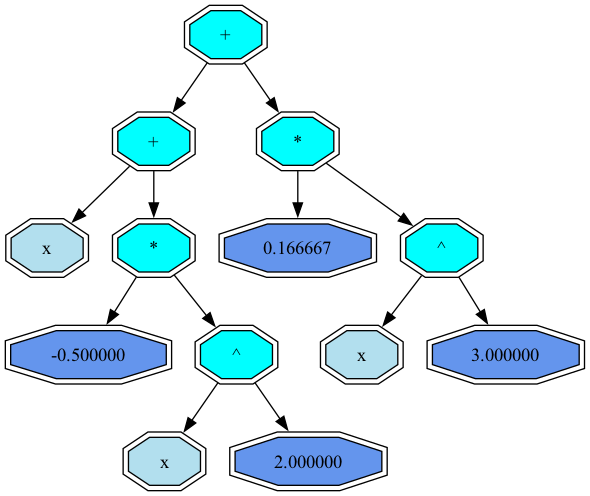
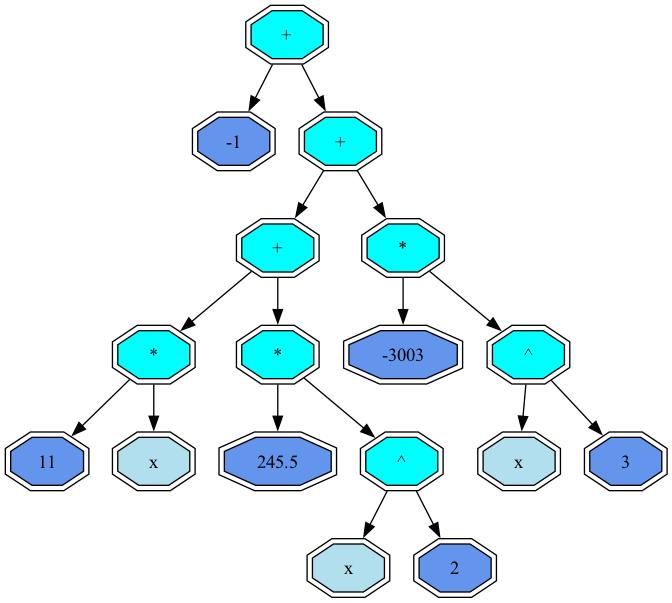
release

diff --git a/differential.cpp b/differential.cpp
@@ -247,10 +247,11 @@ void ExpressionTreeDump (TreeNode* node, enum EXPRESSION cmd_expression)
     {
         file = fopen ("original.dot", "w");
     }
-    else if (cmd_expression == CALCULATED)
+    if (cmd_expression == CALCULATED)
     {
         file = fopen ("calculated.dot", "w");
     }
+
     fprintf (file, "digraph G { \n"
                     "node [shape = record];\n"
                     " %o ", node);
@@ -262,7 +263,7 @@ void ExpressionTreeDump (TreeNode* node, enum EXPRESSION cmd_expression)
     {
         system ("dot -T png original.dot -o original.png");
     }
-    else if (cmd_expression == CALCULATED)
+    if (cmd_expression == CALCULATED)
     {
         system ("dot -T png calculated.dot -o calculated.png");
     }
@@ -327,7 +328,7 @@ void DumpTreeNode (TreeNode* node, FILE* file)
     if (node->type == NUM)
     {
         fprintf (file, " %o [shape = doubleoctagon, style = filled, fillcolor = cornflowerblue "
-                       " label = \" %f \"];\n",
+                       " label = \" %g \"];\n",
                        node,
                        (float)node->value);
     }
@@ -367,6 +368,7 @@ void DumpTreeNode (TreeNode* node, FILE* file)
 
     if (node->type != FUNC)
         DumpTreeNode (node->left, file);
+
     DumpTreeNode (node->right, file);
 }
 
@@ -433,7 +435,7 @@ void OptimiseExpressionTree (TreeNode* node, enum PASS pass)
                 OptimiseNumTreeNode (node);
             }
 
-            else if (CHECK_NUM(node->left, 0) ||CHECK_NUM(node->right, 0))
+            else if (CHECK_NUM(node->left, 0) || CHECK_NUM(node->right, 0))
             {
                 OptimiseSpecialCases (node, 0);
             }
@@ -515,7 +517,7 @@ void PutBracketsBefore (TreeNode* node, FILE* latex_file, char bracket_type)
     {
         if (node->left->value != OP_MUL && node->left->value != OP_DIV &&
            (node->left->value != OP_ADD && node->left->value != OP_SUB) &&
-           node->value != OP_EXP)
+            node->value != OP_EXP)
             fprintf (latex_file, "%c", bracket_type);
     }
 }
@@ -524,9 +526,9 @@ void PutBracketsAfter (TreeNode* node, FILE* latex_file, char bracket_type)
 {
     if (node->value == OP_MUL)
     {
-        if ((node->right->value != OP_MUL && node->right->value != OP_EXP) &&
-           (node->left->type != NUM || (node->right->type != OP || node->right->value != OP_DIV)) &&
-           (node->left->value != OP_DIV || node->right->value != OP_DIV))
+        if ((node->right->value != OP_MUL && node->right->value != OP_EXP)                       &&
+            (node->left->type != NUM || node->right->type != OP || node->right->value != OP_DIV) &&
+            (node->left->value != OP_DIV || node->right->value != OP_DIV))
             fprintf (latex_file, "%c", bracket_type);
     }
     else if (node->value != OP_DIV)
@@ -571,15 +573,17 @@ void LatexOp (TreeNode* node, FILE* latex_file)
                 if (node->left->value == -1)
                     fprintf (latex_file, "-");
                 else
-                    fprintf (latex_file, "%f", (float)node->left->value);
+                    fprintf (latex_file, "%g", (float)node->left->value);
             }
             else
-                fprintf (latex_file, "%f", (float)node->left->value);
+                fprintf (latex_file, "%g", (float)node->left->value);
             break;
         }
         case VAR:
+        {
             fprintf (latex_file, "x");
             break;
+        }
         default:
         {
             PutBracketsBefore (node, latex_file, '(');
@@ -594,7 +598,7 @@ void LatexOp (TreeNode* node, FILE* latex_file)
     switch (node->right->type)
     {
         case NUM:
-            fprintf (latex_file, "%f", (float)node->right->value);
+            fprintf (latex_file, "%g", (float)node->right->value);
             break;
         case VAR:
             fprintf (latex_file, "x");
@@ -618,13 +622,15 @@ void PrintLatex (TreeNode* node, FILE* latex_file)
     switch (node->type)
     {
         case OP:
+            // PrintLatexOp
             LatexOp (node, latex_file);
             break;
         case FUNC:
+            // PrintFuncName
             TextFuncName (node->right, latex_file, GetFuncName ((int)node->value));
             break;
         case NUM:
-            fprintf (latex_file, "%f", (float)node->value);
+            fprintf (latex_file, "%g", (float)node->value);
             break;
         case VAR:
             fprintf (latex_file, "x");

diff --git a/differential.h b/differential.h
@@ -118,6 +118,11 @@ TreeNode* GetSeriesMember (const TreeNode* node, const int order);
 #define LN(expr) NewNode (OP, OP_MUL, DiffTree (expr), NewNode (OP, OP_DIV,                                 \
                                                                       NewNode (NUM, 1, NULL, NULL),         \
                                                                       CopyTree (expr)));
+
+// #define MUL(expr1, expr2) NewNode(OP, OP_MUL, expr1, expr2);
+
+//ADD(MUL(DiffTree(expr1), expr2), MUL(expr1, DiffTree(expr2))
+
 #define ADD(expr1, expr2) NewNode (OP, OP_ADD, DiffTree (expr1), DiffTree (expr2))
 #define SUB(expr1, expr2) NewNode (OP, OP_SUB, DiffTree (expr1), DiffTree (expr2))
 #define MUL(expr1, expr2) NewNode (OP, OP_ADD, NewNode (OP, OP_MUL, DiffTree (expr1), CopyTree (expr2)),    \

diff --git a/recursive_descent.cpp b/recursive_descent.cpp
@@ -3,6 +3,7 @@
 
 void SkipSpaces (Position* data)
 {
+    // isspace
     while (data->str[data->position] == ' ' || data->str[data->position] == '\n')
     {
         data->position++;
@@ -95,6 +96,7 @@ TreeNode* GetN (Position* data)
     int val = 0;
     int old_p = data->position;
     SkipSpaces (data);
+    // atoi
     while ('0' <= data->str[data->position] && data->str[data->position] <= '9')
     {
         val = val * 10 + data->str[data->position] - '0';
@@ -108,7 +110,7 @@ TreeNode* GetId (Position* data)
     char arg[20] = "";
     int counter = 0;
     SkipSpaces (data);
-    while (isalpha (data->str[data->position]) != 0)
+    while (!isalpha (data->str[data->position]))
     {
         sprintf (arg + counter, "%c", data->str[data->position]);
         data->position++;

diff --git a/main.cpp b/main.cpp
@@ -19,7 +19,7 @@ int main ()
 
 
     //TreeNode* dif_root = DiffTree (tree.root);
-    TreeNode* dif_root = Taylor (tree.root, 3);
+    TreeNode* dif_root = Taylor (tree.root, 5);
     TreeDel (tree.root);
 
     OptimiseExpressionTree (dif_root, FIRST_PASS);

diff --git a/eval.tex b/eval.tex
@@ -1,1 +1,1 @@
-ln (1.000000+(sin (x)))=x+-0.500000x^{2.000000}+0.166667x^{3.000000}
+(sin (15x+5)^{3})+(cos ((x^{3})-27))=-1+11x+245.5x^{2}+-3003x^{3}
